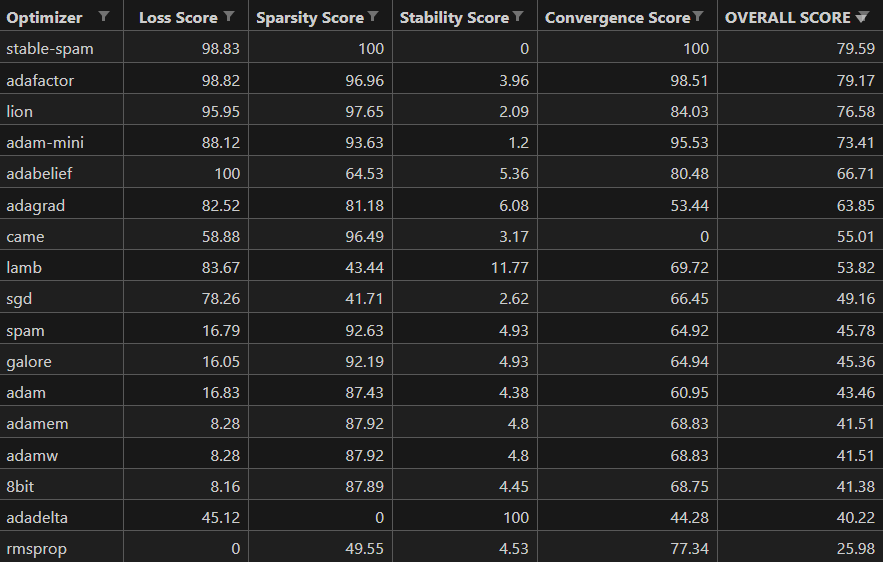
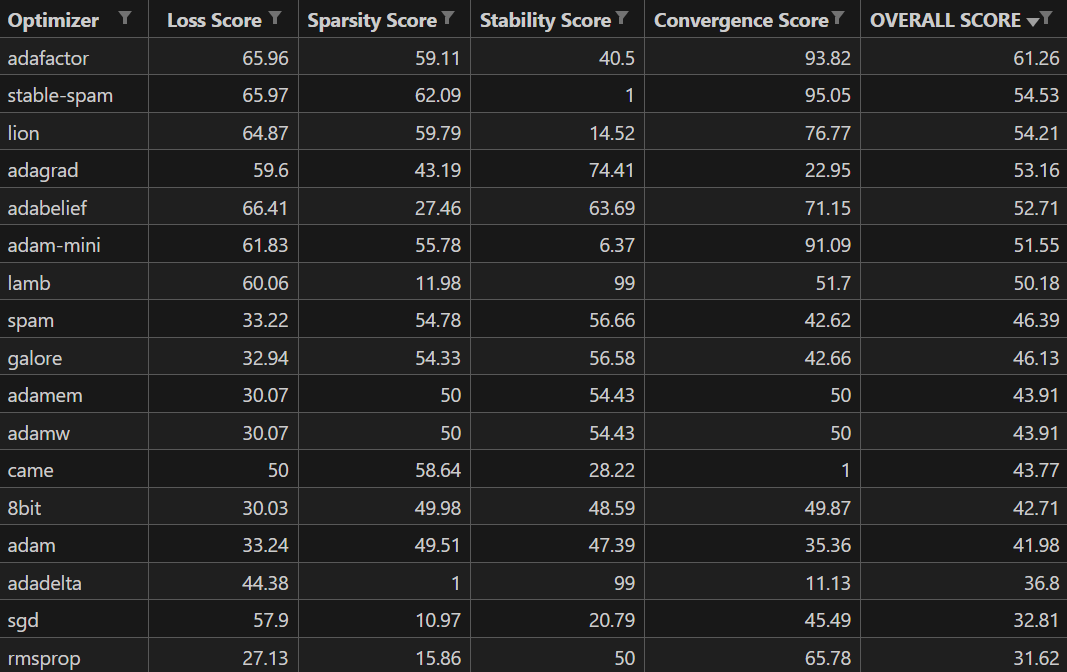
final visuals

Changed region(s): [[0.0, 0.0, 1.0, 0.9982], [0.1223, 0.605, 0.1529, 0.6352]]

diff --git a/results/line chart.py b/results/line chart.py
@@ -1,0 +1,101 @@
+import matplotlib.pyplot as plt
+import pandas as pd
+import seaborn as sns
+import os
+import numpy as np
+
+# --- PART 2: THE HERO TRAJECTORIES (Line Chart) ---
+# The optimizers we want to highlight
+heroes = {
+    "sgd": ("SGD (Baseline)", "#95a5a6", "--"),
+    "adam": ("Adam (industry Standard)", "#3498db", "-"),
+    "adabelief": ("AdaBelief (Best Final Loss)", "#e74c3c", ":"),
+    "lamb": ("LAMB (Best Stability)", "#9b59b6", "-"),
+    "stable-spam": ("Stable-SPAM (Best Sparsity and Convergence)", "#f1c40f", "-."),
+    "adafactor": ("Adafactor (Over all Winner)", "#2ecc71", "-")
+}
+
+plt.figure(figsize=(10, 6))
+
+for file_key, (label, color, style) in heroes.items():
+    filename = f"{file_key}_seed42.csv"
+    # Logic to find the file
+    path = os.path.join("logs", filename) if os.path.exists(os.path.join("logs", filename)) else filename
+    
+    if os.path.exists(path):
+        try:
+            df = pd.read_csv(path)
+            # Smoothing the line slightly makes it look better on posters
+            sns.lineplot(x=df["step"], y=df["loss"], label=label, color=color, linestyle=style, linewidth=3)
+        except Exception as e:
+            print(f"⚠ Could not read {filename}: {e}")
+    else:
+        print(f"⚠ Missing file: {filename} (Skipping line)")
+
+plt.title("Training Stability & Convergence", fontsize=18, weight='bold')
+plt.xlabel("Training Steps")
+plt.ylabel("Loss")
+plt.legend(fontsize=12)
+plt.tight_layout()
+plt.savefig("poster_trajectories.png", dpi=300)
+print("✅ Generated: poster_trajectories.png")
+
+
+# --- THREE SIDE-BY-SIDE CHARTS: Loss, Sparsity, Drift ---
+fig, axes = plt.subplots(1, 3, figsize=(18, 5))
+
+# Load data for all heroes
+data_loaded = {}
+for file_key in heroes.keys():
+    filename = f"{file_key}_seed42.csv"
+    path = os.path.join("logs", filename) if os.path.exists(os.path.join("logs", filename)) else filename
+    
+    if os.path.exists(path):
+        try:
+            data_loaded[file_key] = pd.read_csv(path)
+        except Exception as e:
+            print(f"⚠ Could not read {filename}: {e}")
+
+# --- SUBPLOT 1: Loss ---
+ax = axes[0]
+for file_key, (label, color, style) in heroes.items():
+    if file_key in data_loaded:
+        df = data_loaded[file_key]
+        ax.plot(df["step"], df["loss"], label=label, color=color, linestyle=style, linewidth=2.5)
+
+ax.set_title("Loss Convergence", fontsize=14, weight='bold')
+ax.set_xlabel("Training Steps", fontsize=12)
+ax.set_ylabel("Loss", fontsize=12)
+ax.legend(fontsize=10, loc='best')
+ax.grid(True, alpha=0.3)
+
+# --- SUBPLOT 2: Sparsity ---
+ax = axes[1]
+for file_key, (label, color, style) in heroes.items():
+    if file_key in data_loaded:
+        df = data_loaded[file_key]
+        ax.plot(df["step"], df["sparsity"], label=label, color=color, linestyle=style, linewidth=2.5)
+
+ax.set_title("Sparsity Evolution (%)", fontsize=14, weight='bold')
+ax.set_xlabel("Training Steps", fontsize=12)
+ax.set_ylabel("Sparsity (%)", fontsize=12)
+ax.legend(fontsize=10, loc='best')
+ax.grid(True, alpha=0.3)
+
+# --- SUBPLOT 3: Drift (Update Magnitude) ---
+ax = axes[2]
+for file_key, (label, color, style) in heroes.items():
+    if file_key in data_loaded:
+        df = data_loaded[file_key]
+        ax.plot(df["step"], np.abs(df["drift"]), label=label, color=color, linestyle=style, linewidth=2.5)
+
+ax.set_title("Update Magnitude (|Drift|)", fontsize=14, weight='bold')
+ax.set_xlabel("Training Steps", fontsize=12)
+ax.set_ylabel("Absolute Drift", fontsize=12)
+ax.legend(fontsize=10, loc='best')
+ax.grid(True, alpha=0.3)
+
+fig.suptitle("Training Stability & Convergence", fontsize=16, weight='bold', y=1.00)
+plt.tight_layout()
+plt.savefig("hero_trajectories_3charts.png", dpi=300, bbox_inches='tight')
+print("✅ Generated: hero_trajectories_3charts.png")

diff --git a/results/pi chart.py b/results/pi chart.py
@@ -1,0 +1,71 @@
+import numpy as np
+import matplotlib.pyplot as plt
+import pandas as pd
+from math import pi
+
+# 1. Load your Composite Data
+df = pd.read_csv("optimizer_composite_ranking.csv")
+
+# 2. Select Optimizers
+optimizers = ["sgd", "adam", "adabelief", "lamb", "stable-spam", "adafactor"]
+optimizer_labels = {
+    "sgd": "SGD (Baseline)",
+    "adam": "Adam (industry Standard)",
+    "adabelief": "AdaBelief (Best Final Loss)",
+    "lamb": "LAMB (Best Stability)",
+    "stable-spam": "Stable-SPAM (Best Sparsity and Convergence)",
+    "adafactor": "Adafactor (Over all Winner)"
+}
+df_subset = df[df["Optimizer"].isin(optimizers)]
+
+# 3. Define the Metrics to Display
+categories = ['Loss Score', 'Sparsity Score', 'Stability Score', 'Convergence Score']
+labels = ['Final Loss\n(35%)', 'Sparsity\n(35%)', 'Update Stability\n(20%)', 'Convergence\n(10%)']
+N = len(categories)
+
+# 4. Setup the Radar Chart
+angles = [n / float(N) * 2 * pi for n in range(N)]
+angles += [angles[0]]  # Close the loop
+
+fig, ax = plt.subplots(figsize=(12, 10), subplot_kw={'projection': 'polar'})
+
+# 5. Define colors and styles for each optimizer
+colors = {
+    "sgd": "#95a5a6",              # Grey
+    "adam": "#3498db",             # Blue
+    "adabelief": "#e74c3c",        # Red
+    "lamb": "#9b59b6",             # Purple
+    "stable-spam": "#f1c40f",      # Yellow
+    "adafactor": "#2ecc71"         # Green
+}
+
+styles = {
+    "sgd": "--",
+    "adam": "-",
+    "adabelief": ":",
+    "lamb": "-",
+    "stable-spam": "-.",
+    "adafactor": "-"
+}
+
+# 6. Plot each optimizer
+for optimizer in optimizers:
+    df_opt = df_subset[df_subset["Optimizer"] == optimizer]
+    if not df_opt.empty:
+        values = df_opt[categories].values.flatten().tolist()
+        values += [values[0]]  # Close the loop
+        
+        ax.plot(angles, values, linewidth=2.5, linestyle=styles[optimizer], label=optimizer_labels[optimizer], color=colors[optimizer])
+
+# 7. Formatting
+plt.xticks(angles[:-1], labels, color='black', size=12)
+ax.set_rlabel_position(0)
+plt.yticks([20, 40, 60, 80, 100], ["20", "40", "60", "80", "100"], color="grey", size=10)
+plt.ylim(0, 100)
+
+plt.title("Optimizer Performance Comparison", size=16, color='black', y=1.08, weight='bold')
+plt.legend(loc='upper left', bbox_to_anchor=(1.1, 1.1), fontsize=11, framealpha=0.9)
+
+plt.tight_layout()
+plt.savefig("optimizers_radar_chart.png", dpi=300, bbox_inches='tight')
+print("✅ Optimizers radar chart saved as 'optimizers_radar_chart.png'")

diff --git a/results/plot_poster.py b/results/plot_poster.py
@@ -47,6 +47,7 @@ heroes = {
     "sgd": ("SGD (Baseline)", "#95a5a6", "--"),
     "adamw": ("AdamW (Standard)", "#3498db", "-"),
     "adafactor": ("Adafactor (Winner)", "#2ecc71", "-"),
+    "adabelief": ("AdaBelief (Efficient)", "#e74c3c", ":"),
     "lion": ("Lion (Sparse King)", "#9b59b6", "-"),
     "stable-spam": ("Stable-SPAM (New)", "#f1c40f", "-.")
 }
